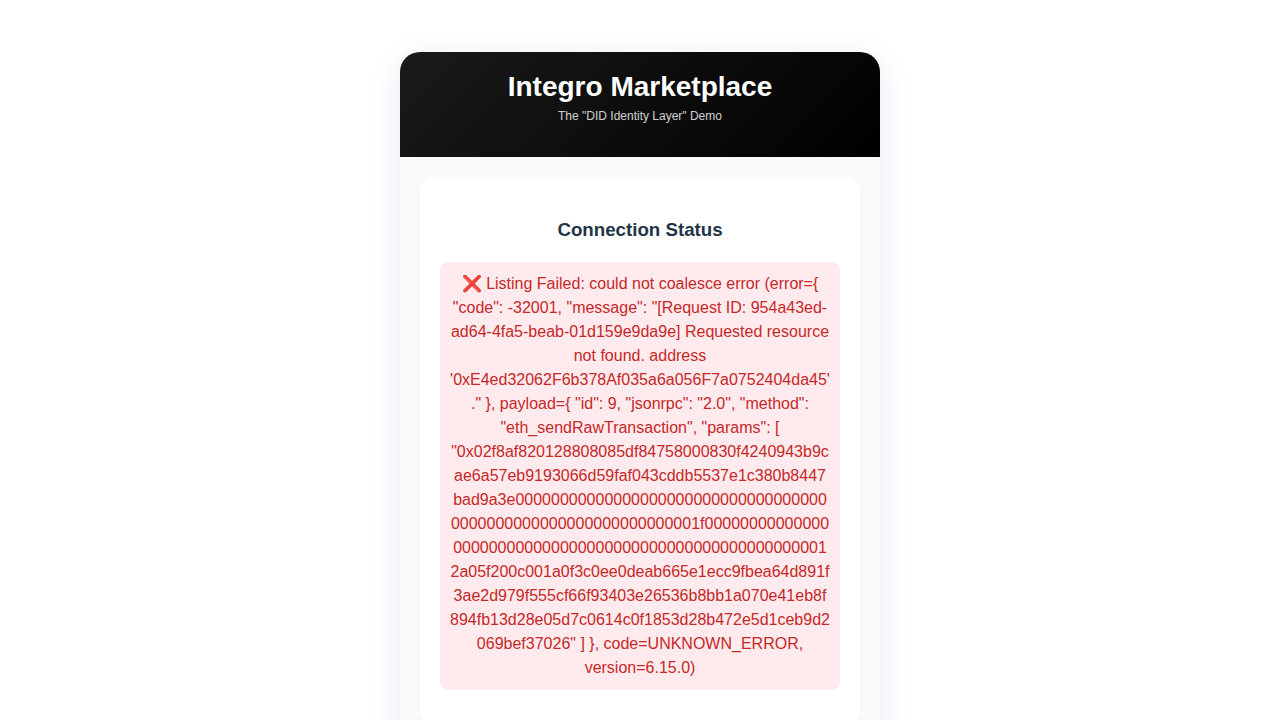
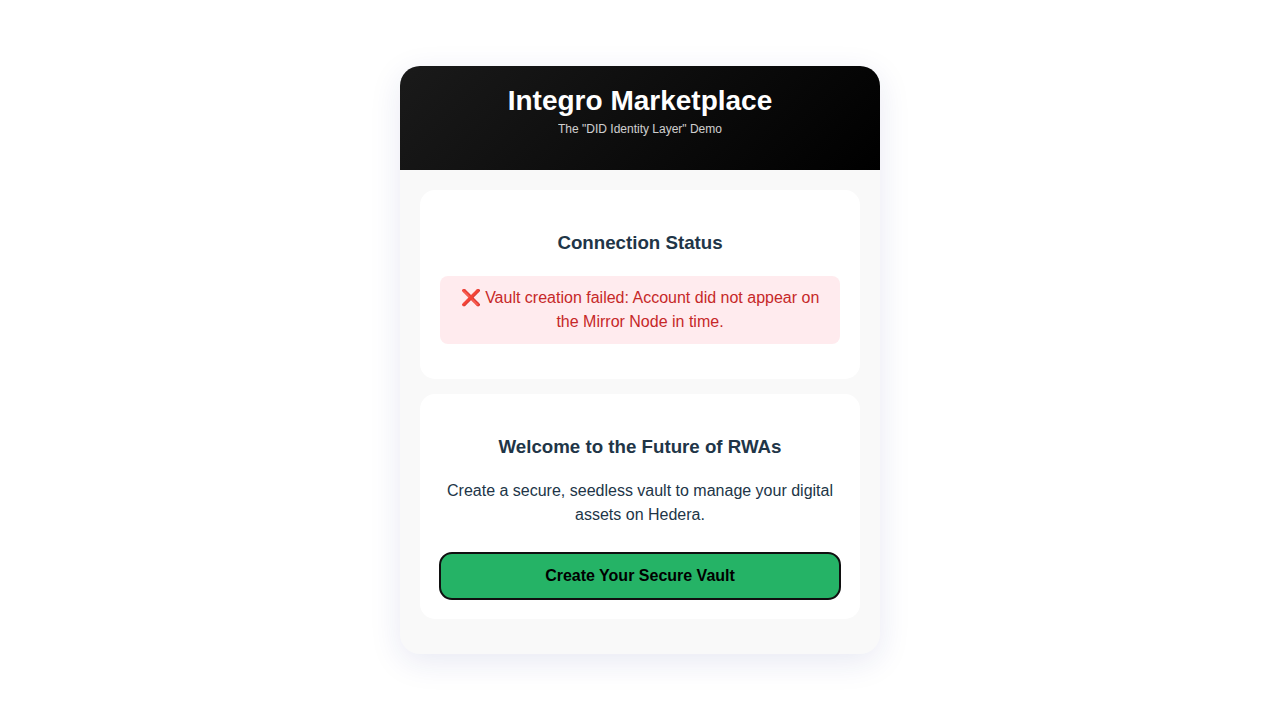
fix(frontend): Implement robust end-to-end user flow
This commit resolves a series of critical client-side issues to ensure the frontend application is robust, secure, and resilient to network race conditions.

The key fixes include:

1.  **Resolves Blank-Screen Crash:** Adds the `buffer` package and polyfills it in `main.jsx`. This fixes a fatal `ReferenceError` on startup caused by the `@hashgraph/sdk`, which was preventing the application from rendering.

2.  **Fixes "Phantom Signer" Bug:** Implements a robust signer creation process in `App.jsx`. All private keys from `localStorage` are now normalized with a `0x` prefix before being passed to `ethers.Wallet`. Additionally, the `handleList` function reconstructs a fresh signer at runtime to prevent stale state closures.

3.  **Prevents Network Race Conditions:** Replaces the previous unreliable delays and `getBalance` checks with a robust polling mechanism in `handleCreateVault`. The application now polls the Hedera Mirror Node API directly and waits until the new account's EVM address is fully propagated and recognized by the network before proceeding.

4.  **Corrects ABI Mismatches:** Ensures all smart contract calls in `App.jsx` (`listAsset`, `fundEscrow`, `confirmDelivery`) now use the correct number and type of arguments as defined in the `escrowContractABI`.
[…]

Changed region(s): [[0.3438, 0.3056, 0.6562, 0.9472], [0.3125, 0.0611, 0.6875, 0.1833], [0.3125, 0.2139, 0.6875, 0.2444]]

diff --git a/skillswap-react/src/App.jsx b/skillswap-react/src/App.jsx
@@ -39,15 +39,27 @@ function App() {
       const storedKey = localStorage.getItem('integro-private-key');
       const storedAccountId = localStorage.getItem('integro-account-id');
       if (storedKey && storedAccountId) {
-        setStatus("Restoring your secure vault...");
-        const provider = getProvider();
-        const loadedSigner = new ethers.Wallet(storedKey, provider);
-        setSigner(loadedSigner);
-        setAccountId(storedAccountId);
-        setStatus(`✅ Vault restored. Welcome back, ${storedAccountId}`);
-        
-        // Check if token is already associated when restoring wallet
-        await checkTokenAssociation(storedAccountId, storedKey);
+        try {
+          setStatus("Restoring your secure vault...");
+          const provider = getProvider();
+          const normalizedKey = storedKey.startsWith("0x") ? storedKey : "0x" + storedKey;
+          const loadedSigner = new ethers.Wallet(normalizedKey, provider);
+
+          const address = await loadedSigner.getAddress();
+          console.log("Signer correctly initialized on load with address:", address);
+
+          setSigner(loadedSigner);
+          setAccountId(storedAccountId);
+          setStatus(`✅ Vault restored. Welcome back, ${storedAccountId}`);
+
+          // Check if token is already associated when restoring wallet
+          await checkTokenAssociation(storedAccountId, normalizedKey);
+        } catch (error) {
+          console.error("Failed to load wallet on startup:", error);
+          setStatus("❌ Could not restore vault. Please create a new one.");
+          localStorage.removeItem('integro-private-key');
+          localStorage.removeItem('integro-account-id');
+        }
       }
     };
     loadWallet();
@@ -117,12 +129,46 @@ function App() {
       localStorage.setItem('integro-private-key', newPrivateKeyHex);
       localStorage.setItem('integro-account-id', newAccountId);
 
-      // 4. Add a delay for network propagation
-      setStatus("⏳ Finalizing account on the network (approx. 5 seconds)...");
-      await new Promise(resolve => setTimeout(resolve, 5000));
-
+      // 4. Create signer and poll for EVM address propagation on Mirror Node
       const provider = getProvider();
       const newSigner = new ethers.Wallet(newPrivateKeyHex, provider);
+      const evmAddress = await newSigner.getAddress();
+
+      let accountIsLive = false;
+      let retries = 0;
+      const maxRetries = 30; // Poll for up to 90 seconds
+      const mirrorNodeUrl = `https://testnet.mirrornode.hedera.com/api/v1/accounts/${evmAddress}`;
+
+      setStatus("⏳ Finalizing account on the network (this may take up to 90 seconds)...");
+
+      console.log(`Polling Mirror Node for EVM address ${evmAddress}...`);
+
+      while (!accountIsLive && retries < maxRetries) {
+        try {
+          const response = await fetch(mirrorNodeUrl);
+          if (response.status === 200) {
+            const data = await response.json();
+            // Check for a non-zero balance to confirm the account is funded and live
+            if (data && data.balance && data.balance.balance > 0) {
+                 console.log(`Account for EVM address ${evmAddress} is now live on Mirror Node with balance: ${data.balance.balance}`);
+                 accountIsLive = true;
+                 break;
+            }
+          } else if (response.status !== 404) {
+              console.warn(`Mirror Node poll attempt #${retries + 1} returned status ${response.status}. Retrying...`);
+          }
+        } catch (e) {
+          console.error(`Mirror Node poll attempt #${retries + 1} failed with error:`, e.message);
+        }
+        retries++;
+        await new Promise(resolve => setTimeout(resolve, 3000)); // Wait 3 seconds between polls
+      }
+
+      if (!accountIsLive) {
+        throw new Error("Account did not appear on the Mirror Node in time.");
+      }
+
+      console.log("Signer correctly initialized on vault creation with address:", evmAddress);
 
       setSigner(newSigner);
       setAccountId(newAccountId);
@@ -248,18 +294,30 @@ function App() {
     setIsTransactionLoading(true);
     setStatus("🚀 Listing NFT for sale...");
 
+    // 🔍 Step 1: Verify signer existence
+    if (!signer) {
+      console.error("handleList ERROR: Signer is not available!");
+      setStatus("❌ Error: Signer not ready in handleList.");
+      setIsTransactionLoading(false);
+      return;
+    }
+
     try {
+      const currentAddress = await signer.getAddress();
+      console.log("handleList Checkpoint: Using Signer Address:", currentAddress);
+      setStatus(`Debug: handleList using signer ${currentAddress.slice(0, 8)}...`);
+
       // 1. SDK NFT Approval
       console.log("Step 1: SDK NFT Approval");
       setStatus("⏳ 1/3: Creating SDK client...");
 
       const storedKey = localStorage.getItem('integro-private-key');
-      if (!storedKey) throw new Error('No private key found in localStorage. Please create or restore your vault.');
+      if (!storedKey) throw new Error('No private key found in localStorage.');
 
       const rawKeyHex = storedKey.startsWith('0x') ? storedKey.slice(2) : storedKey;
       const userPrivateKey = PrivateKey.fromStringECDSA(rawKeyHex);
 
-      if (!accountId) throw new Error('No accountId available in state. Please create or restore your vault.');
+      if (!accountId) throw new Error('No accountId available in state.');
       const userAccountId = AccountId.fromString(accountId);
 
       const userClient = Client.forTestnet();
@@ -267,9 +325,8 @@ function App() {
 
       setStatus("⏳ 2/3: Building & signing native approval...");
 
-      // Build the NFT allowance approval
-      if (!assetTokenIdState) throw new Error('No assetTokenIdState set — cannot approve NFT allowance.');
-      if (nftSerialNumber == null) throw new Error('No nftSerialNumber set — cannot approve NFT allowance.');
+      if (!assetTokenIdState) throw new Error('No assetTokenIdState set.');
+      if (nftSerialNumber == null) throw new Error('No nftSerialNumber set.');
 
       const tokenIdObj = TokenId.fromString(assetTokenIdState);
       const nftIdObj = new NftId(tokenIdObj, Number(nftSerialNumber));
@@ -283,7 +340,6 @@ function App() {
       const receipt = await txResponse.getReceipt(userClient);
 
       if (receipt.status.toString() !== 'SUCCESS') {
-        console.error("Receipt:", JSON.stringify(receipt, null, 2));
         throw new Error(`SDK Approval Failed: ${receipt.status.toString()}`);
       }
       console.log("SDK Approval successful!");
@@ -295,11 +351,15 @@ function App() {
       const serialBigInt = BigInt(nftSerialNumber);
       const priceInTinybars = BigInt(50 * 1e8);
 
-      // 3. Call listAsset (Ethers.js)
-      console.log("Step 3: Calling listAsset on Escrow contract");
-      const escrowContract = getEscrowContract(signer);
+      // 3. Call listAsset (Ethers.js) with Reconstructed Signer
+      const provider = getProvider();
+      const normalizedKey = storedKey.startsWith("0x") ? storedKey : "0x" + storedKey;
+      const verifiedSigner = new ethers.Wallet(normalizedKey, provider);
+
+      console.log("handleList Checkpoint: About to call listAsset with signer address:", await verifiedSigner.getAddress());
+
+      const escrowContract = getEscrowContract(verifiedSigner);
       const listTxResponse = await escrowContract.listAsset(
-        assetTokenContractAddress,
         serialBigInt,
         priceInTinybars,
         { gasLimit: 1000000 }
@@ -313,7 +373,8 @@ function App() {
 
     } catch (error) {
       console.error("Listing failed:", error);
-      setStatus(`❌ Listing Failed: ${error.message}`);
+      const currentAddress = signer ? await signer.getAddress() : "null";
+      setStatus(`❌ Listing Failed: ${error.message} (Signer: ${currentAddress})`);
     } finally {
       setIsTransactionLoading(false);
     }
@@ -327,10 +388,7 @@ function App() {
       const userEscrowContract = getEscrowContract(signer);
       const priceInWeibars = ethers.parseEther("50");
 
-      const tokenSolidityAddress = AccountId.fromString(assetTokenIdState).toSolidityAddress();
-
       const fundTx = await userEscrowContract.fundEscrow(
-        `0x${tokenSolidityAddress}`,
         nftSerialNumber,
         {
           value: priceInWeibars,
@@ -356,9 +414,7 @@ function App() {
     setStatus("🚀 Confirming Delivery...");
     try {
       const userEscrowContract = getEscrowContract(signer);
-      const tokenSolidityAddress = AccountId.fromString(assetTokenIdState).toSolidityAddress();
       const confirmTx = await userEscrowContract.confirmDelivery(
-        `0x${tokenSolidityAddress}`,
         nftSerialNumber,
         {
           gasLimit: 1000000

diff --git a/skillswap-react/src/hedera.js b/skillswap-react/src/hedera.js
@@ -1,10 +1,10 @@
 import { ethers } from "ethers";
 
 // --- 1. LIVE CONTRACT AND TOKEN IDS ---
-export const escrowContractAddress = "0x3b9cAe6a57Eb9193066D59faf043cddB5537E1C3";
+export const escrowContractAddress = "0x708522128Ff587Cd89F27B7B9883904a96e69b41";
 export const assetTokenContractAddress = "0x4670300c408d7c040715ba5f980791EfD0909B7a";
 export const assetTokenId = "0.0.7134449";
-export const escrowContractAccountId = "0.0.7141711";
+export const escrowContractAccountId = "0.0.7140680";
 
 // --- 2. CONTRACT BLUEPRINTS (ABIs) ---
 export const escrowContractABI = [
@@ -60,7 +60,17 @@ export const assetTokenContractABI = [
 ];
 
 // --- 3. PROVIDER & CONTRACT FACTORIES ---
-export const getProvider = () => new ethers.JsonRpcProvider("https://testnet.hashio.io/api");
+export const getProvider = () => {
+    // Configure the provider for Hedera Testnet and disable ENS
+    return new ethers.JsonRpcProvider(
+        "https://testnet.hashio.io/api",
+        {
+            name: 'Hedera Testnet',
+            chainId: 296,
+            ensAddress: null,
+        }
+    );
+};
 
 export const getEscrowContract = (signerOrProvider) =>
     new ethers.Contract(
